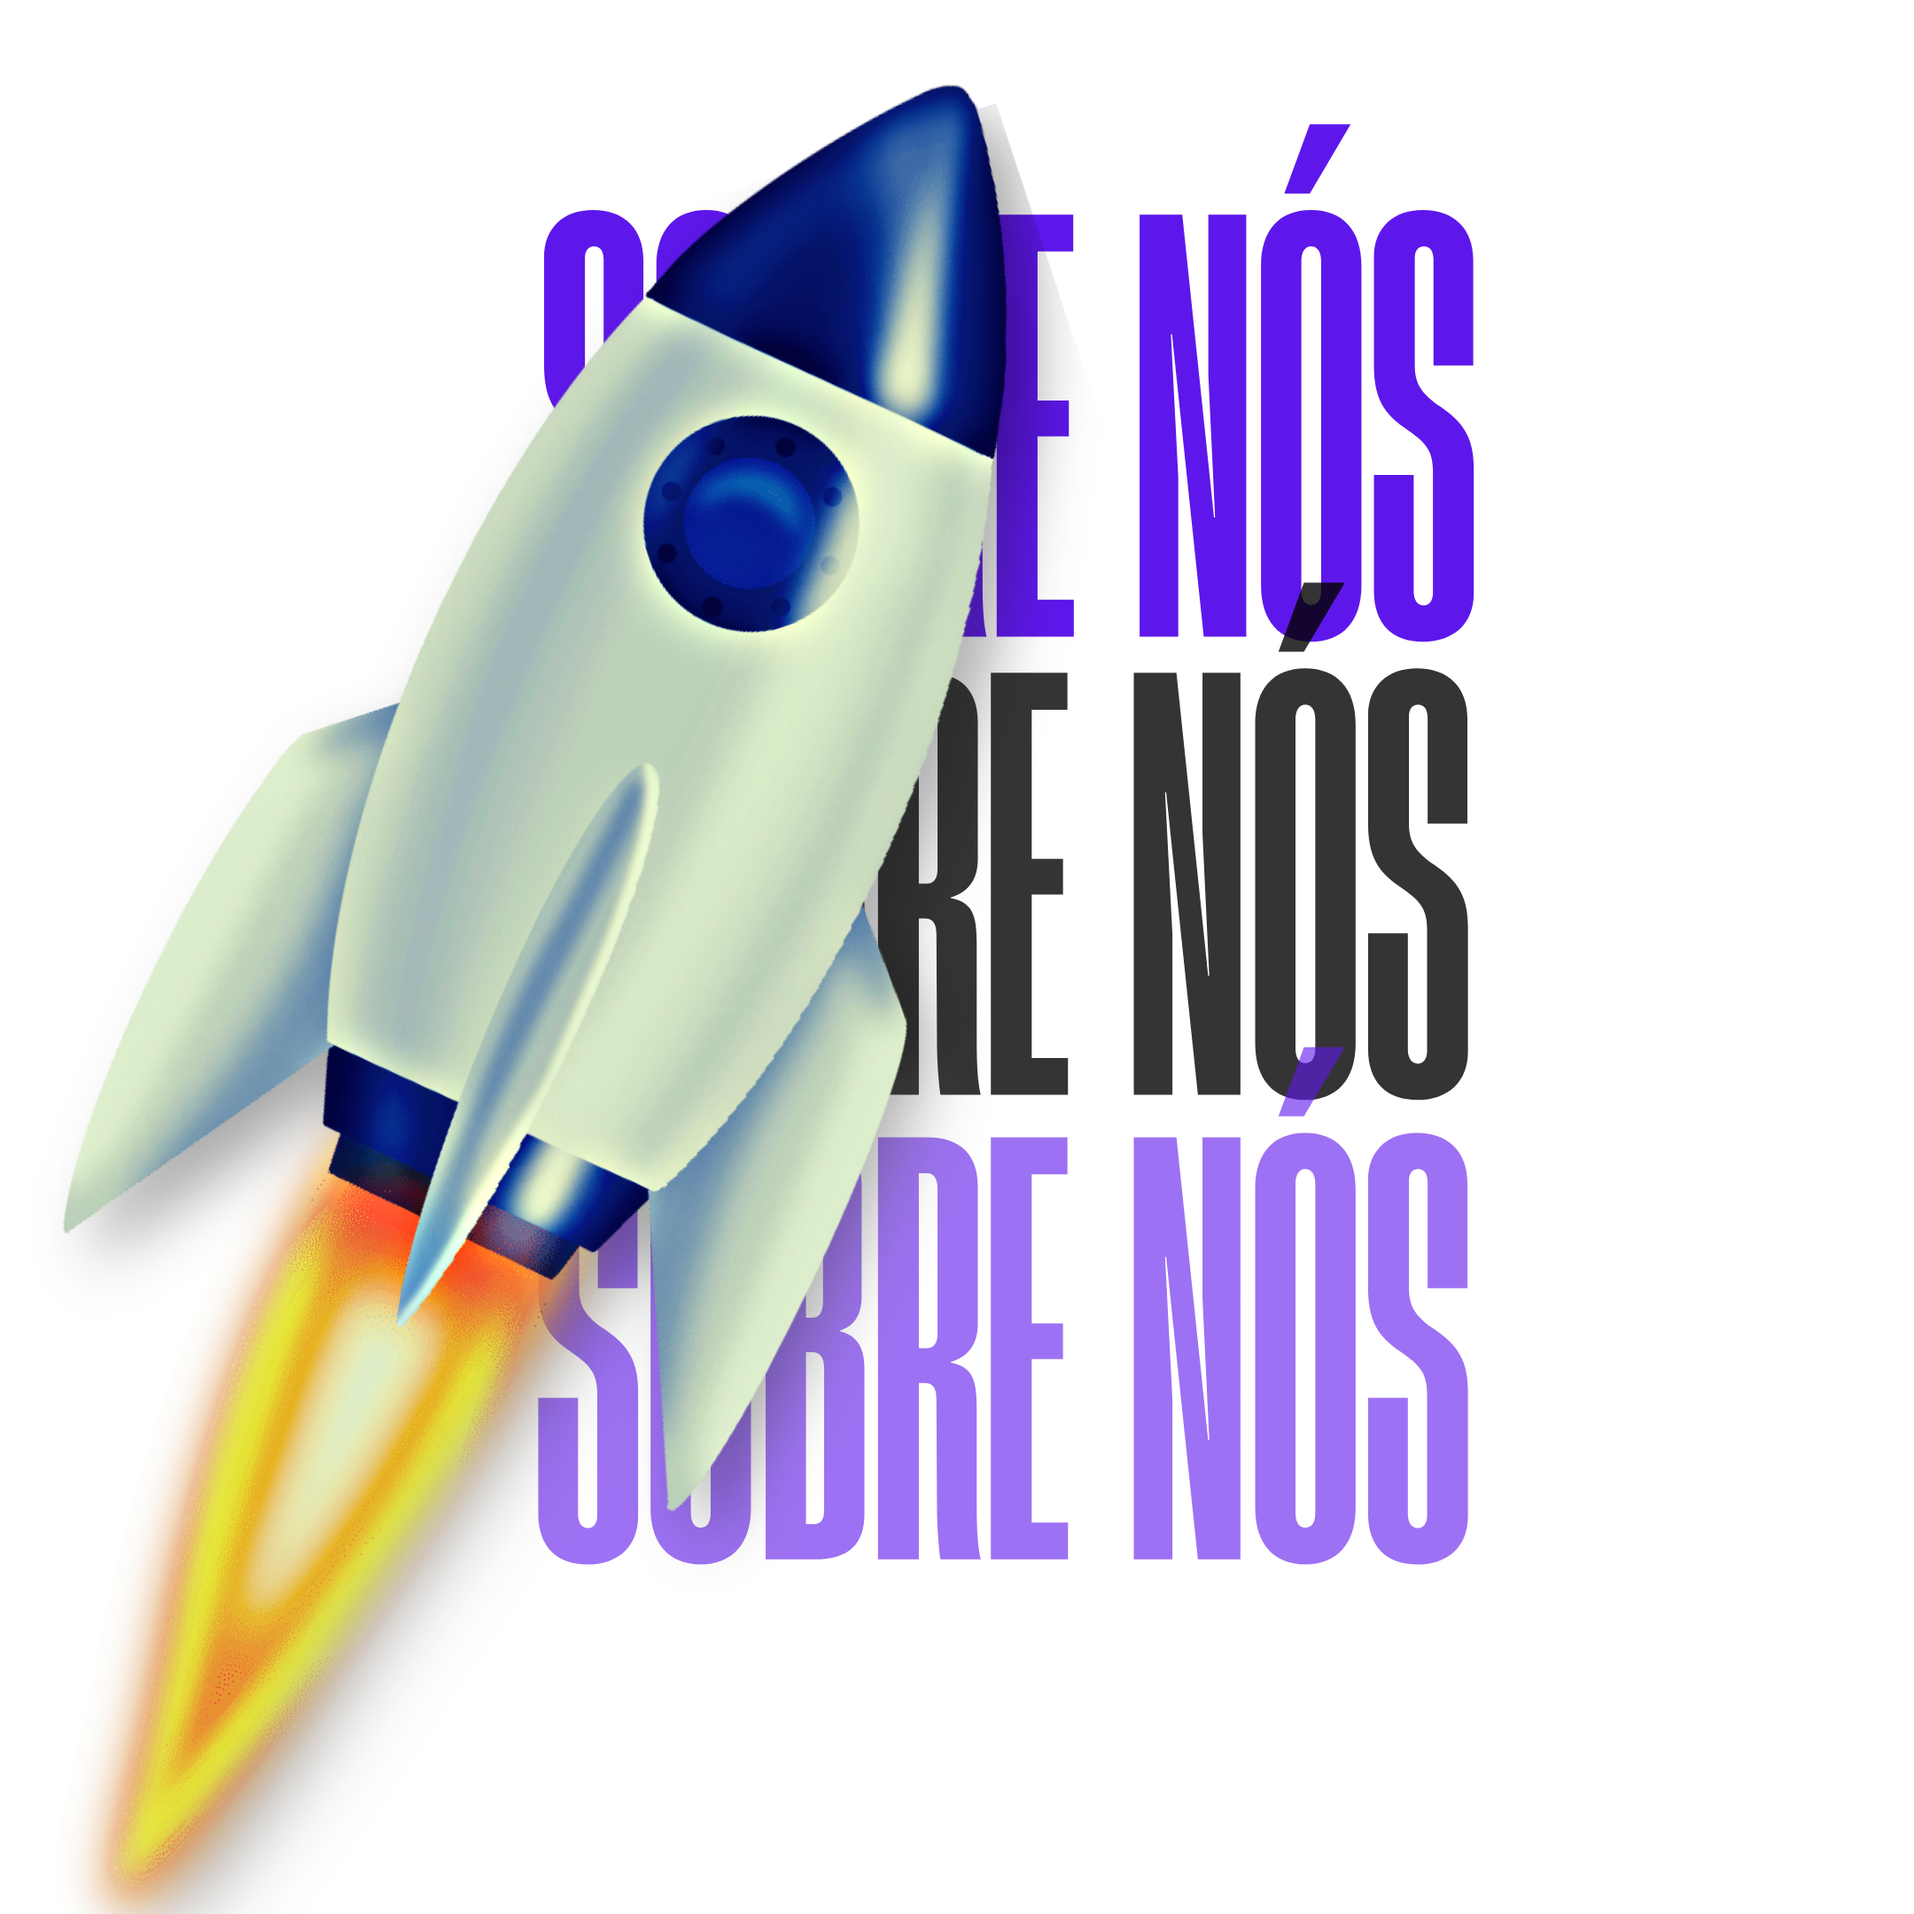
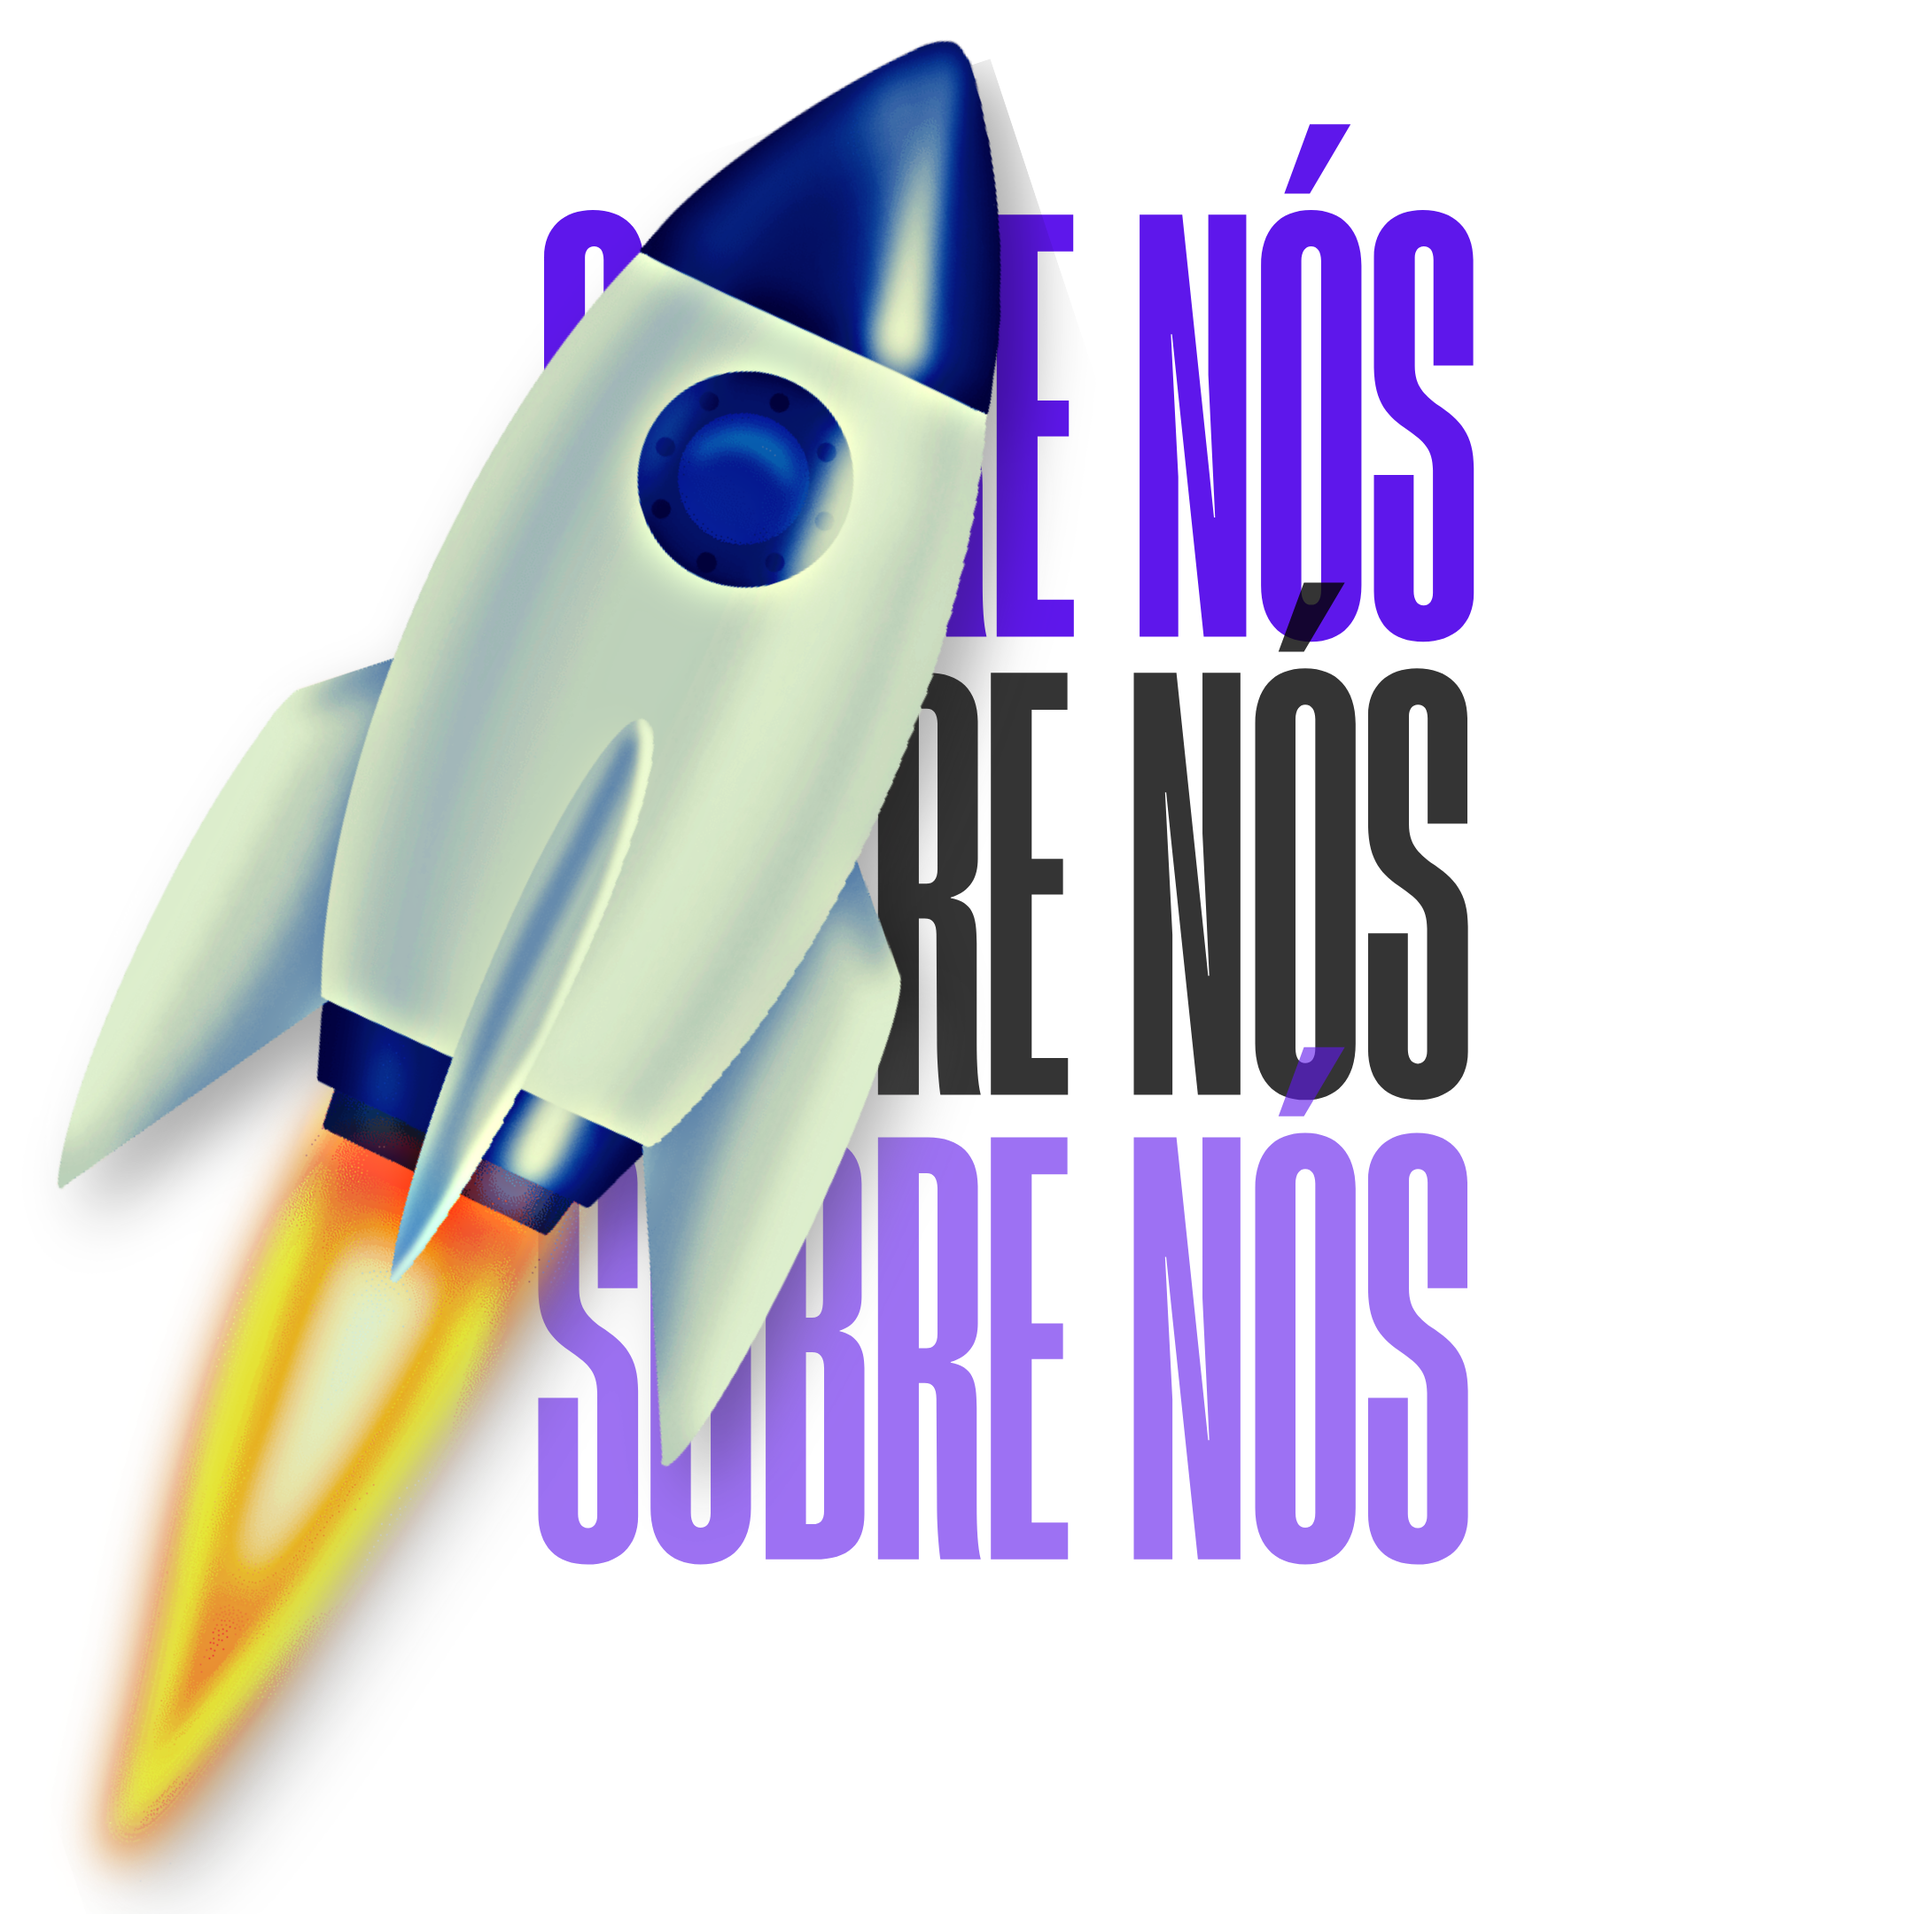
fix: resolve a resolution image

Changed region(s): [[0.031, 0.0, 0.5583, 1.0]]

diff --git a/app/page.tsx b/app/page.tsx
@@ -56,7 +56,7 @@ export default function Home() {
       {/* COMPONENT ABOUT */}
       <div className="flex flex-col items-center p-5 justify-center" id="sobre">
         <div className="h-[360px] mt-10">
-          <Image src="/about.png" alt="sobre nós" height={300} width={300} />
+          <Image src="/about.png" alt="sobre nós" height={280} width={280} />
         </div>
 
         <div className="flex items-center justify-center gap-11 flex-col mt-5 md:flex-row">
